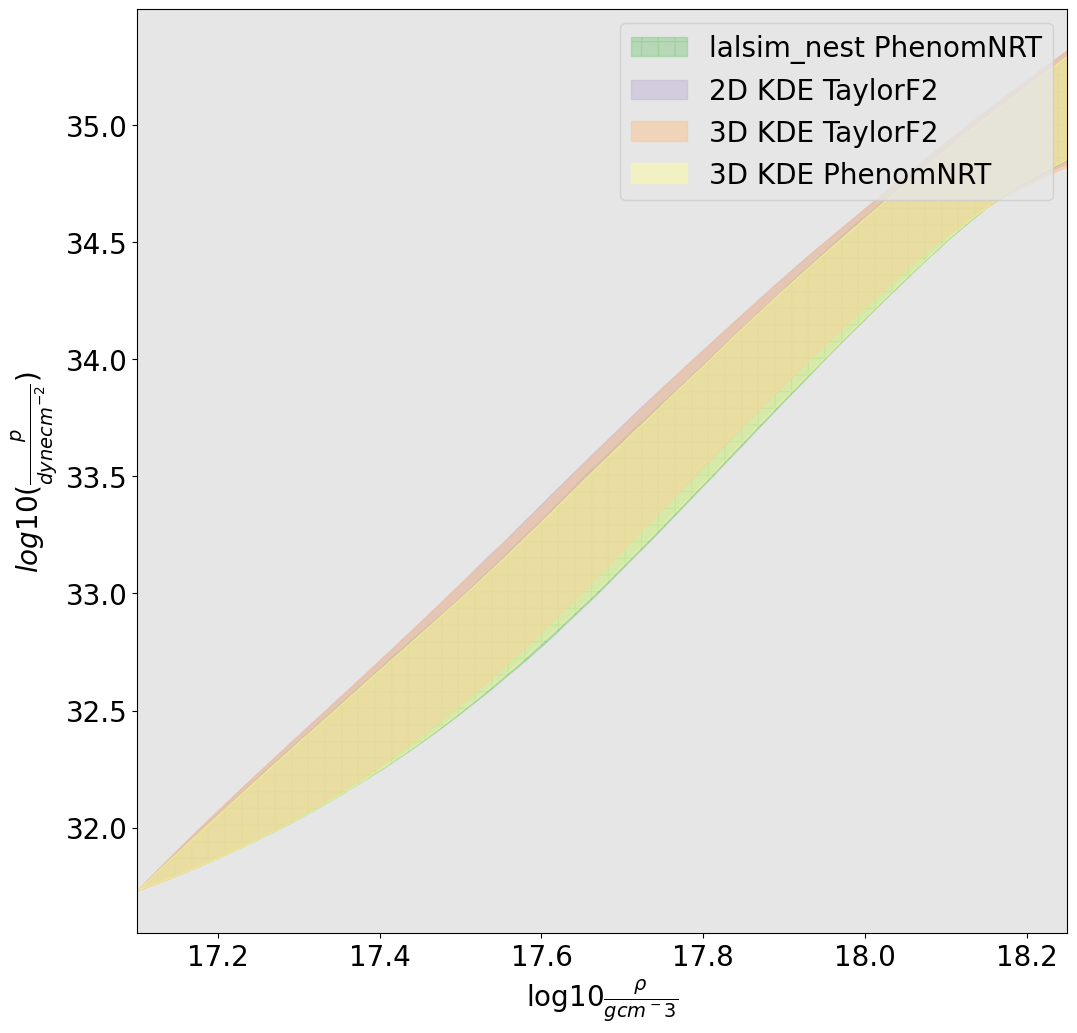
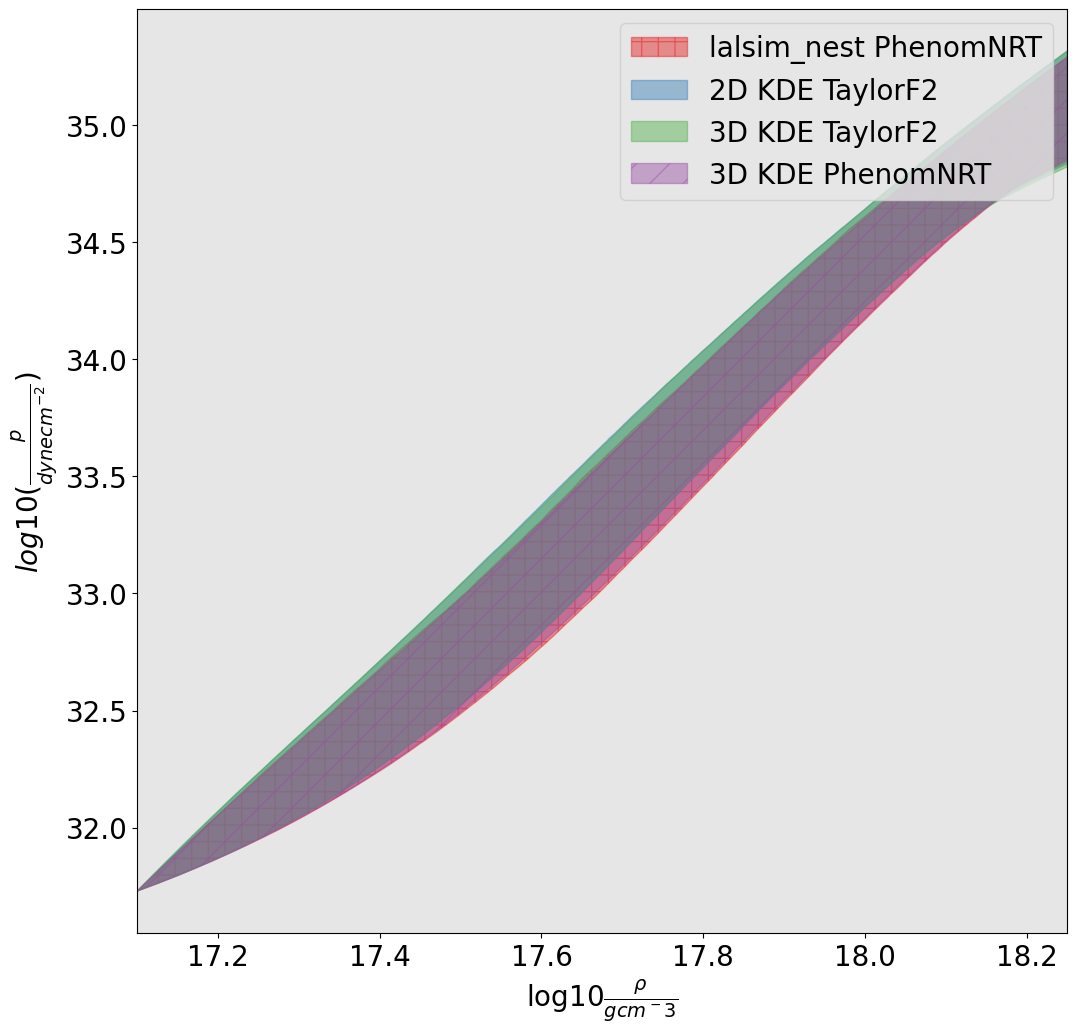
Adjusted colors for GW170817 comparison

Changed region(s): [[0.1226, 0.1859, 0.9192, 0.8674], [0.5822, 0.031, 0.6435, 0.1859], [0.9499, 0.031, 1.0, 0.1859]]

diff --git a/year3/lastStretch/eventConstraint.py b/year3/lastStretch/eventConstraint.py
@@ -138,8 +138,7 @@ def plotConstraint():
     Labels = ["lalsim_nest PhenomNRT", "2D KDE TaylorF2", "3D KDE TaylorF2", "3D KDE PhenomNRT"]
     #Labels = ["2D KDE TaylorF2", "3D KDE TaylorF2"]
     #Labels = ["3D KDE TaylorF2", "3D KDE PhenomNRT"]
-    Colors = ["#7fc97f","#beaed4","#fdc086","#ffff99"]
-    #Colors = ["#d7191c","#fdae61","#abdda4"]
+    Colors = ['#e41a1c','#377eb8','#4daf4a','#984ea3']
     #Colors = ['#e41a1c','#377eb8','#4daf4a']
     #Colors = ['#e41a1c','#377eb8']
     #Colors = ['#377eb8','#4daf4a']
@@ -151,7 +150,7 @@ def plotConstraint():
     plt.rc('ytick', direction='out', color='black')
     plt.rc('lines', linewidth=2)
 
-    Hatches = ["+","","",""]
+    Hatches = ["+","","","/"]
 
     for label, Label, Color, Hatch in zip(labels,Labels,Colors,Hatches): # increment over each plot file
 
